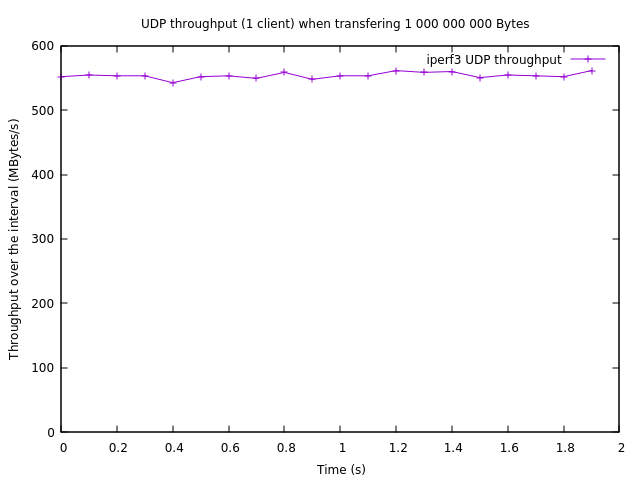
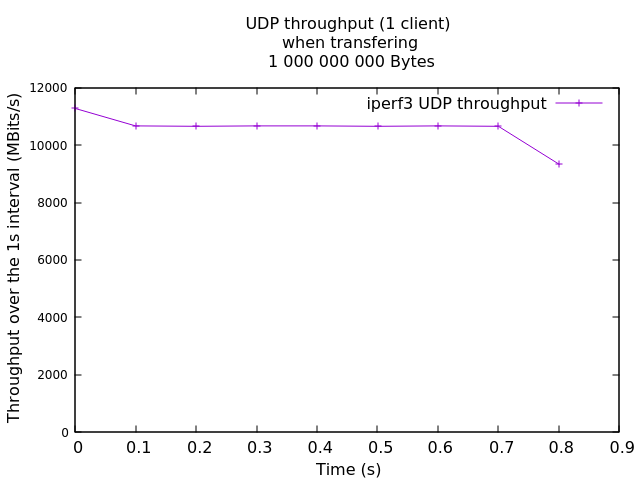
UDP throughput in time

diff --git a/diss.tex b/diss.tex
@@ -1813,7 +1813,7 @@ One plausible explanation for this insignificant change could be that the testin
 \subsection{Size of the Buffers} 
 
 In order to saturate the links, I increased \texttt{nuttcp's} window size to be more than the bandwidth-delay product of the link.
-To be precise, the testing environment used 10 Gigabit Ethernet links and the end-to-end delay between the client and the server was $0.262 \pm 0.065$ ms (see \S~\ref{physical_setup_subsection}), meaning that the window size was at least $10^{10}*2.62*10^{-4} = 2.62$~Mbytes.
+To be precise, the testing environment used 10 Gigabit Ethernet links and the end-to-end delay between the client and the server was $0.262 \pm 0.065$ ms (see \S~\ref{physical_setup_subsection}), meaning that the window size was at least $10^{10}*2.62*10^{-4}$~bytes $= 2.62$~Mbytes.
 
 % TODO
 \simon{TODO: 1. Update send and receive buffers according to: https://www.kernel.org/doc/ols/2009/ols2009-pages-169-184.pdf}
@@ -1854,17 +1854,17 @@ As a side note, the Large Receive Offload is disabled on both the testing and in
 
 
 \begin{table}[H]
-\begin{tabular}{|r|r|l|l|l|l|}
+\begin{tabular}{|r|r|r|r|r|r|}
 \hline
-\multicolumn{1}{|c|}{\begin{tabular}[c]{@{}c@{}}Requested \\ file size \\ (MBytes)\end{tabular}} & \multicolumn{1}{c|}{\begin{tabular}[c]{@{}c@{}}Number of \\ parallel \\ clients \\ (1 request \\ per client)\end{tabular}} & \multicolumn{1}{c|}{\begin{tabular}[c]{@{}c@{}}Average\\ total \\ throughput \\ measured \\ on the \\ receiver's \\ side (MBit/s)\end{tabular}} & \multicolumn{1}{c|}{\begin{tabular}[c]{@{}c@{}}Standard \\ deviation \\ of the \\ throughput \\ sample \\ (MBit/s)\end{tabular}} & \multicolumn{1}{c|}{\begin{tabular}[c]{@{}c@{}}Average \\ total \\ completion \\ time (ms)\end{tabular}} & \multicolumn{1}{c|}{\begin{tabular}[c]{@{}c@{}}Standard \\ deviation \\ of the\\ completion \\ time \\ sample (ms)\end{tabular}} \\ \hline
-1                                                                                                & 1                                                                                                                          & 2607.36                                                                                                                                         & 141.00                                                                                                                           & 3.32                                                                                                     & 0.15                                                                                                                             \\ \hline
-1                                                                                                & 10                                                                                                                         & 2553.50                                                                                                                                         & 135.39                                                                                                                           & 3.39                                                                                                     & 0.16                                                                                                                             \\ \hline
-10                                                                                               & 1                                                                                                                          & 3173.78                                                                                                                                         & 42.77                                                                                                                            & 25.48                                                                                                    & 0.38                                                                                                                             \\ \hline
-10                                                                                               & 10                                                                                                                         & 2837.25                                                                                                                                         & 103.20                                                                                                                           & 28.47                                                                                                    & 1.01                                                                                                                             \\ \hline
-100                                                                                              & 1                                                                                                                          & 3101.15                                                                                                                                         & 90.58                                                                                                                            & 258.46                                                                                                   & 7.68                                                                                                                             \\ \hline
-100                                                                                              & 10                                                                                                                         & 2585.65                                                                                                                                         & 73.19                                                                                                                            & 309.92                                                                                                   & 8.70                                                                                                                             \\ \hline
-1000                                                                                             & 1                                                                                                                          & 3022.14                                                                                                                                         & 40.53                                                                                                                            & 2647.88                                                                                                  & 34.85                                                                                                                            \\ \hline
-1000                                                                                             & 10                                                                                                                         & 2444.70                                                                                                                                         & 51.48                                                                                                                            & 3274.00                                                                                                  & 68.89                                                                                                                            \\ \hline
+\multicolumn{1}{|c|}{\begin{tabular}[c]{@{}c@{}}Requested\\ file size \\ (Mbytes)\end{tabular}} & \multicolumn{1}{c|}{\begin{tabular}[c]{@{}c@{}}Number of\\ parallel \\ clients\\ (1 request\\ per client)\end{tabular}} & \multicolumn{1}{c|}{\begin{tabular}[c]{@{}c@{}}Average\\ total\\ throughput\\ measured\\ on the\\ receiver's\\ side (Mbit/s)\end{tabular}} & \multicolumn{1}{c|}{\begin{tabular}[c]{@{}c@{}}Standard \\ deviation\\ of the\\ throughput\\ sample\\ \\ side (Mbit/s)\end{tabular}} & \multicolumn{1}{c|}{\begin{tabular}[c]{@{}c@{}}Average\\ total\\ completion\\ time (ms)\end{tabular}} & \multicolumn{1}{c|}{\begin{tabular}[c]{@{}c@{}}Standard \\ deviation\\ of thecompletion\\ timesample\\ side (Mbit/s)\end{tabular}} \\ \hline
+1                                                                                               & 1                                                                                                                       & 6492.92                                                                                                                                    & 379.66                                                                                                                               & 1.19                                                                                                  & 0.07                                                                                                                               \\ \hline
+1                                                                                               & 10                                                                                                                      & 7023.35                                                                                                                                    & 252.09                                                                                                                               & 1.17                                                                                                  & 0.05                                                                                                                               \\ \hline
+10                                                                                              & 1                                                                                                                       & 9759.24                                                                                                                                    & 100.66                                                                                                                               & 6.86                                                                                                  & 0.15                                                                                                                               \\ \hline
+10                                                                                              & 10                                                                                                                      & 9786.08                                                                                                                                    & 112.75                                                                                                                               & 6.85                                                                                                  & 0.16                                                                                                                               \\ \hline
+100                                                                                             & 1                                                                                                                       & 10455.02                                                                                                                                   & 176.66                                                                                                                               & 76.47                                                                                                 & 1.30                                                                                                                               \\ \hline
+100                                                                                             & 10                                                                                                                      & 10379.86                                                                                                                                   & 204.23                                                                                                                               & 64.78                                                                                                 & 0.45                                                                                                                               \\ \hline
+1000                                                                                            & 1                                                                                                                       & 10642.93                                                                                                                                   & 15.85                                                                                                                                & 801.77                                                                                                & 0.98                                                                                                                               \\ \hline
+1000                                                                                            & 10                                                                                                                      & 10628.97                                                                                                                                   & 21.74                                                                                                                                & 659.68                                                                                                & 6.22                                                                                                                               \\ \hline
 \end{tabular}
     \centering
     \caption[Impact of parallel streams for \texttt{UDP} throughput]{Impact of parallel streams for \texttt{UDP} throughput. Here packets travel via an intermediate machine.}
@@ -1910,7 +1910,7 @@ Hence, the server and its associated stack could form the performance bottleneck
     \begin{figure}[H]
     \centering
     \includegraphics[width=0.9\textwidth]{figs/UDP_throughput_in_time.png}
-    \caption[Change of \texttt{UDP} throughput in time when a single \texttt{iperf3} client sends \texttt{UDP} traffic to the \texttt{iperf3} server via an intermediate machine]{Change of \texttt{UDP} throughput in time when a single \texttt{iperf3} client sends \texttt{UDP} traffic to the \texttt{iperf3} server via an intermediate machine. Here throughput is measured at the granularity of 0.1 s. \simon{Still using MBytes/second. It should be MBits/second!}}
+    \caption[Change of \texttt{UDP} throughput in time when a single \texttt{iperf3} client sends \texttt{UDP} traffic to the \texttt{iperf3} server via an intermediate machine]{Change of \texttt{UDP} throughput in time when a single \texttt{iperf3} client sends \texttt{UDP} traffic to the \texttt{iperf3} server via an intermediate machine. Here throughput is measured at the granularity of 0.1 s.}
     \label{fig:UDP_throughput_in_time}
     \end{figure}
 
